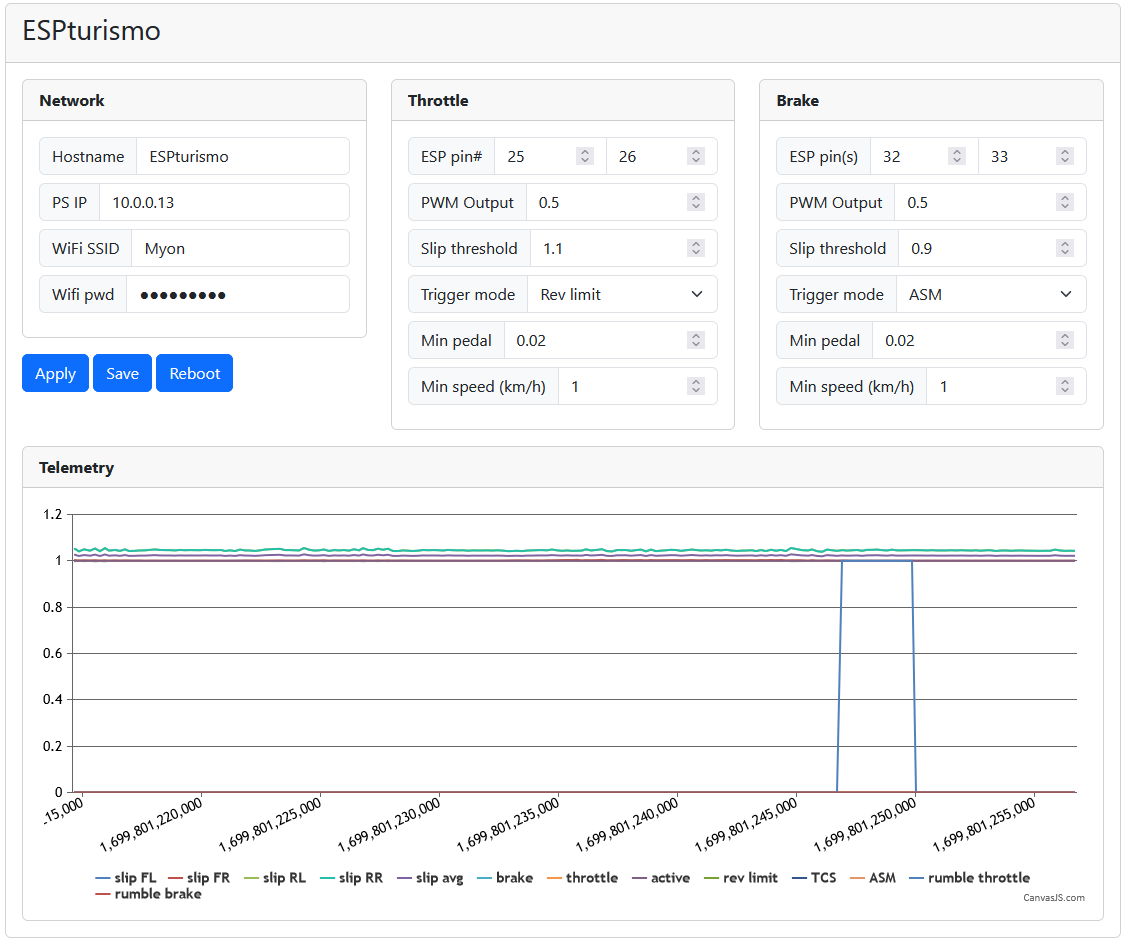
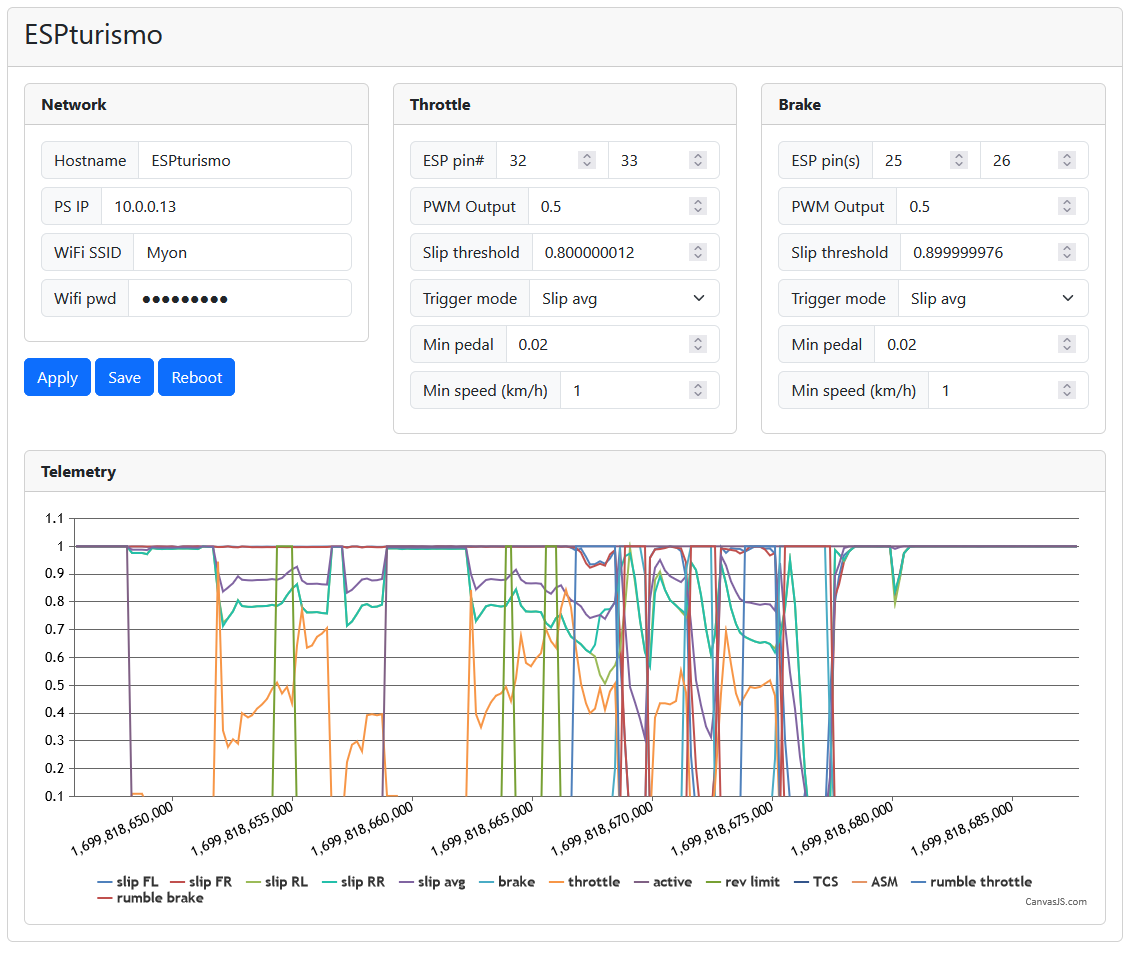
Fixed min pedal threshold bug, changed accel slip ratio calculation to be in range 0-1

Changed region(s): [[0.0, 0.4608, 0.9602, 0.9831], [0.0, 0.0, 0.9602, 0.4301]]

diff --git a/data/www/index.html b/data/www/index.html
@@ -68,7 +68,7 @@
               </div>
               <div class="input-group mb-2">
                 <span class="input-group-text">Slip threshold</span>
-                <input id="accel.threshold" type="number" step="0.1" min="0" max="5" class="form-control" data-toggle="tooltip" title="should be > 1.0">
+                <input id="accel.threshold" type="number" step="0.01" min="0" max="1" class="form-control" data-toggle="tooltip" title="should be < 1.0">
               </div>
               <div class="input-group mb-2">
                 <label class="input-group-text" for="accel.mode">Trigger mode</label>
@@ -108,7 +108,7 @@
               </div>
               <div class="input-group mb-2">
                 <span class="input-group-text">Slip threshold</span>
-                <input id="decel.threshold" type="number" step="0.1" min="0" max="5" class="form-control" data-toggle="tooltip" title="should be < 1.0">
+                <input id="decel.threshold" type="number" step="0.01" min="0" max="1" class="form-control" data-toggle="tooltip" title="should be < 1.0">
               </div>
               <div class="input-group mb-2">
                 <label class="input-group-text" for="decel.mode">Trigger mode</label>

diff --git a/data/www/js/telemetry.js b/data/www/js/telemetry.js
@@ -19,7 +19,11 @@ function create_chart(keys) {
 		title:{
 			text: undefined              
 		},
-		data: series
+		data: series,
+      axisY: {
+         minimum: 0.1,
+         maximum: 1.1
+      }
 	});
 	chart.render();
 }

diff --git a/src/telemetry.cpp b/src/telemetry.cpp
@@ -63,15 +63,22 @@ void GTtelemetry::analyze() {
     for (int i=0;i<4;i++) {
         // wheel rotations (radians/s) times tire radius (m)
         wheel_speed[i] = abs(get_float(0xA4+4*i) * get_float(0xB4+4*i)) * 3.6;
-        wheel_slip[i] = wheel_speed[i] / car_speed;
-        slip_decel_any |= wheel_slip[i] < settings.decel_threshold;
-        slip_accel_any |= wheel_slip[i] > settings.accel_threshold;
+        // calculate wheel grip: 0 = zero grip, 1 = full grip
+        float accel_grip = car_speed / wheel_speed[i];
+        float decel_grip = wheel_speed[i] / car_speed;
+        slip_decel_any |= decel_grip < settings.decel_threshold;
+        slip_accel_any |= accel_grip < settings.accel_threshold;
+        wheel_slip[i] = min(accel_grip, decel_grip);
         wheel_speed_avg += wheel_speed[i];
     }
     wheel_speed_avg /= 4;
-    wheel_slip_avg = wheel_speed_avg / car_speed;
-    slip_decel_avg = wheel_slip_avg < settings.decel_threshold;
-    slip_accel_avg = wheel_slip_avg > settings.accel_threshold;
+    float accel_grip_avg = car_speed / wheel_speed_avg;
+    float decel_grip_avg = wheel_speed_avg / car_speed;
+    slip_accel_avg = accel_grip_avg < settings.accel_threshold;
+    slip_decel_avg = decel_grip_avg < settings.decel_threshold;
+    wheel_slip_avg = min(accel_grip_avg, decel_grip_avg);
+
+    // egen slip for decel og accel, 0-1.. w/c vs c/w
 
     // pedals
     accel_pedal = float(get_uint8(0x91))/255;
@@ -114,7 +121,7 @@ bool GTtelemetry::getAccel() {
 
 bool GTtelemetry::getDecel() {
     // no rumble if car not active, not moving, or pedal not depressed
-    if (!car_active || car_speed < settings.decel_min_speed || accel_pedal < settings.decel_min_pedal)
+    if (!car_active || car_speed < settings.decel_min_speed || decel_pedal < settings.decel_min_pedal)
         return false;
     bool active;
     switch(settings.decel_mode) {

diff --git a/src/settings.cpp b/src/settings.cpp
@@ -31,18 +31,18 @@ void Settings::from_json(JsonObject &root) {
     strlcpy(hostname, root["network"]["hostname"] | "", sizeof(hostname));
     strlcpy(playstation, root["network"]["playstation"] | "", sizeof(playstation));
 
-    decel_pin1          = root["decel"]["pin1"]      | 32;
-    decel_pin2          = root["decel"]["pin2"]      | 33;
+    decel_pin1          = root["decel"]["pin1"]      | 25;
+    decel_pin2          = root["decel"]["pin2"]      | 26;
     decel_output        = root["decel"]["output"]    | 0.5f;
     decel_threshold     = root["decel"]["threshold"] | 0.9f;
     decel_mode          = root["decel"]["mode"]      | AVG_WHEEL;
     decel_min_pedal     = root["decel"]["min_pedal"] | 0.02f;
     decel_min_speed     = root["decel"]["min_vel"]   | 1.0f;
 
-    accel_pin1          = root["accel"]["pin1"]      | 25;
-    accel_pin2          = root["accel"]["pin2"]      | 26;
+    accel_pin1          = root["accel"]["pin1"]      | 32;
+    accel_pin2          = root["accel"]["pin2"]      | 33;
     accel_output        = root["accel"]["output"]    | 0.5f;
-    accel_threshold     = root["accel"]["threshold"] | 1.1f;
+    accel_threshold     = root["accel"]["threshold"] | 0.8f;
     accel_mode          = root["accel"]["mode"]      | AVG_WHEEL;
     accel_min_pedal     = root["accel"]["min_pedal"] | 0.02f;
     accel_min_speed     = root["accel"]["min_vel"]   | 1.0f;

diff --git a/src/main.cpp b/src/main.cpp
@@ -35,8 +35,8 @@ void loop() {
     webserver.send_event(event_buffer, "telemetry");
   } else if (!gt_telemetry.isValid()) {
     // if no valid telemetry, turn of rumble
-    digitalWrite(settings.accel_pin1, 0);
-    digitalWrite(settings.decel_pin1, 0);
+    rumble_accel.set_output(false);
+    rumble_decel.set_output(false);
   }
   rumble_accel.update();
   rumble_decel.update();
@@ -110,5 +110,5 @@ void setup_ota() {
     });
 
   ArduinoOTA.begin();
-  Serial.printf("Ready for OTA @ %s.local, password %s",settings.hostname, OTA_PASSWORD);
+  Serial.printf("Ready for OTA @ %s.local, password %s\n",settings.hostname, OTA_PASSWORD);
 }
